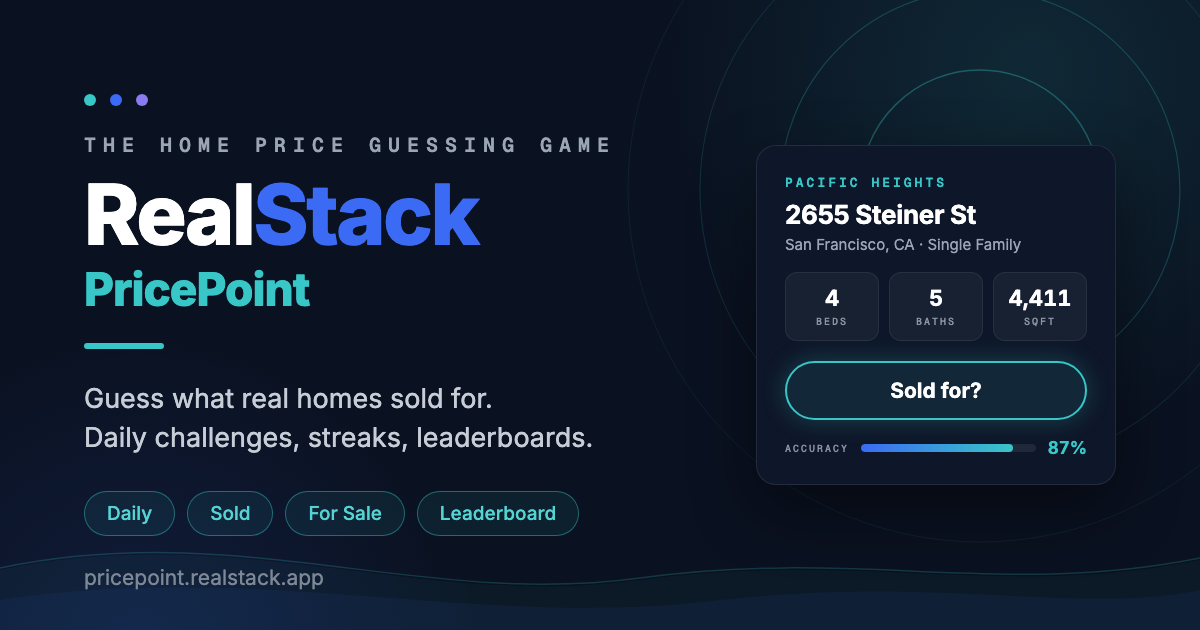
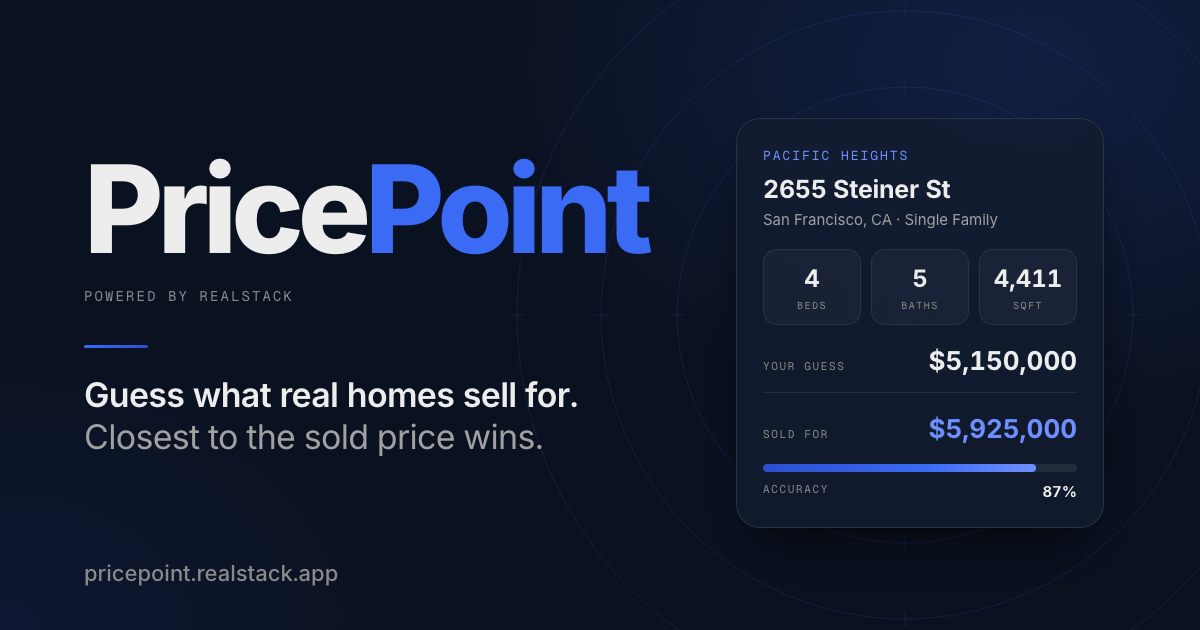
PricePoint share card: lead with PricePoint, one POWERED BY REALSTACK microline
The old og-pricepoint.png led with a huge "RealStack" wordmark and a small
teal "PricePoint" subtitle; it predated the 2026-07-24 naming rule, and a
friend seeing the unfurl in a group text asked "Competitor?". New card:
PricePoint wordmark as the headline, a single Geist Mono POWERED BY
REALSTACK microline, Grange blue (#2B4FCE only as gradient partner), no
teal, and the sample-home card now shows the game loop (your guess, sold
price, accuracy). Thin-line target rings mirror the PricePoint canvas.

Adds scripts/og/og-pricepoint.html as the source (none existed) with the
headless-Chrome render command. iMessage caches unfurls per URL, so old
shares keep the old card.

diff --git a/scripts/og/og-pricepoint.html b/scripts/og/og-pricepoint.html
@@ -1,0 +1,81 @@
+<!doctype html><html><head><meta charset="utf-8">
+<!--
+  Source for public/og-pricepoint.png (1200x630) — the card iMessage/Slack/etc.
+  show when a PricePoint link is shared (api/challenge.js brand card,
+  scripts/seo-pages.mjs). Follows CLAUDE.md "Product naming": PricePoint is the
+  headline, one POWERED BY REALSTACK microline. Grange palette (src/lib/theme.js),
+  Inter text, Geist Mono only for uppercase labels. Rings mirror the "target"
+  canvas in src/components/AppBackground.jsx.
+
+  Re-render (needs network for Google Fonts):
+    "/Applications/Google Chrome.app/Contents/MacOS/Google Chrome" --headless=new \
+      --disable-gpu --hide-scrollbars --force-device-scale-factor=1 \
+      --window-size=1200,630 --virtual-time-budget=8000 \
+      --screenshot="$PWD/public/og-pricepoint.png" "file://$PWD/scripts/og/og-pricepoint.html"
+
+  iMessage caches unfurls per URL — old shares keep the old card.
+-->
+<link rel="preconnect" href="https://fonts.googleapis.com"><link rel="preconnect" href="https://fonts.gstatic.com" crossorigin>
+<link href="https://fonts.googleapis.com/css2?family=Inter:wght@400;500;600;700;800&family=Geist+Mono:wght@400;500&display=block" rel="stylesheet">
+<style>
+*{box-sizing:border-box;margin:0;padding:0}
+html,body{width:1200px;height:630px;overflow:hidden}
+body{background:#0a1120;color:#EDEDED;font-family:'Inter',sans-serif;font-variant-numeric:tabular-nums;position:relative;-webkit-font-smoothing:antialiased}
+.mono{font-family:'Geist Mono',monospace;text-transform:uppercase}
+.wash{position:absolute;inset:0;background:
+ radial-gradient(900px 600px at 85% 10%, rgba(59,107,245,0.16), transparent 60%),
+ radial-gradient(700px 500px at 0% 100%, rgba(43,79,206,0.10), transparent 60%)}
+svg.rings{position:absolute;inset:0}
+.card{position:absolute;background:rgba(18,28,48,0.82);border:1px solid rgba(255,255,255,0.10);border-radius:24px;
+ box-shadow:0 1px 2px rgba(0,0,0,0.3),0 30px 60px -20px rgba(0,0,0,0.7);backdrop-filter:blur(8px)}
+.hood{font-size:13px;letter-spacing:0.15em;color:#6E90FF}
+.addr{font-weight:700;color:#EDEDED;letter-spacing:-0.01em}
+.sub{color:#A1A1A1}
+.stats{display:flex;gap:10px}
+.stat{flex:1;border:1px solid rgba(255,255,255,0.08);background:rgba(255,255,255,0.03);border-radius:14px;text-align:center;padding:14px 0 12px}
+.stat b{display:block;font-size:24px;font-weight:700}
+.stat span{display:block;font-size:10px;letter-spacing:0.15em;color:#8A8A8A;margin-top:6px}
+.btn{border-radius:9999px;background:linear-gradient(135deg,#3B6BF5,#2B4FCE);color:#fff;font-weight:700;text-align:center;box-shadow:0 10px 30px -8px rgba(59,107,245,0.6)}
+.bar{height:8px;border-radius:9999px;background:rgba(255,255,255,0.08);overflow:hidden}
+.bar i{display:block;height:100%;border-radius:9999px;background:linear-gradient(90deg,#2B4FCE,#3B6BF5 60%,#6E90FF)}
+.foot{position:absolute;left:84px;bottom:44px;font-size:22px;color:#8A8A8A;font-weight:500}
+.pb{font-size:13px;letter-spacing:0.15em;color:#8A8A8A}
+</style><style>
+.left{position:absolute;left:84px;top:0;height:630px;width:600px;display:flex;flex-direction:column;justify-content:center;padding-bottom:20px}
+h1{font-size:122px;font-weight:800;letter-spacing:-0.05em;line-height:0.95}
+h1 .pt{color:#3B6BF5}
+.pb{margin-top:20px;font-size:14px}
+.rule{width:64px;height:3px;border-radius:9999px;background:linear-gradient(90deg,#3B6BF5,#2B4FCE);margin-top:40px}
+.tag{font-size:34px;line-height:1.25;color:#EDEDED;margin-top:26px;font-weight:600;letter-spacing:-0.02em}
+.tag span{color:#A1A1A1;font-weight:400}
+.card{left:736px;top:118px;width:368px;padding:28px 26px 26px}
+.addr{font-size:25px;margin-top:10px}.sub{font-size:15px;margin-top:6px}
+.stats{margin-top:20px}
+.row{display:flex;justify-content:space-between;align-items:baseline;margin-top:20px}
+.row .mono{font-size:11px;letter-spacing:0.15em;color:#8A8A8A}
+.row b{font-size:26px;font-weight:700}
+.row.sold b{color:#6E90FF}
+.hr{height:1px;background:rgba(255,255,255,0.08);margin-top:16px}
+.bar{margin-top:20px}
+.accl{display:flex;justify-content:space-between;margin-top:10px;font-size:11px;letter-spacing:0.15em;color:#8A8A8A}
+.accl b{font-family:Inter;font-size:15px;letter-spacing:0;color:#EDEDED}
+.foot{left:84px}
+</style></head><body><div class="wash"></div>
+<svg class="rings" width="1200" height="630"><g fill="none" stroke="rgba(59,107,245,0.17)" stroke-width="1"><circle cx="905" cy="315" r="48"/><circle cx="905" cy="315" r="100"/><circle cx="905" cy="315" r="160"/><circle cx="905" cy="315" r="228"/><circle cx="905" cy="315" r="304"/><circle cx="905" cy="315" r="388"/><path d="M946 315L960 315M850 315L864 315M905 356L905 370M905 260L905 274M998 315L1012 315M798 315L812 315M905 408L905 422M905 208L905 222M1058 315L1072 315M738 315L752 315M905 468L905 482M905 148L905 162M1126 315L1140 315M670 315L684 315M905 536L905 550M905 80L905 94M1202 315L1216 315M594 315L608 315M905 612L905 626M905 4L905 18M1286 315L1300 315M510 315L524 315M905 696L905 710M905 -80L905 -66"/></g><circle cx="905" cy="315" r="3.5" fill="rgba(110,144,255,0.5)"/></svg><div class="left">
+<h1>Price<span class="pt">Point</span></h1>
+<div class="mono pb">Powered by RealStack</div>
+<div class="rule"></div>
+<div class="tag">Guess what real homes sell for.<br><span>Closest to the sold price wins.</span></div>
+</div>
+<div class="card">
+<div class="mono hood">Pacific Heights</div>
+<div class="addr">2655 Steiner St</div>
+<div class="sub">San Francisco, CA · Single Family</div>
+<div class="stats"><div class="stat"><b>4</b><span class="mono">Beds</span></div><div class="stat"><b>5</b><span class="mono">Baths</span></div><div class="stat"><b>4,411</b><span class="mono">Sqft</span></div></div>
+<div class="row"><span class="mono">Your guess</span><b>$5,150,000</b></div>
+<div class="hr"></div>
+<div class="row sold"><span class="mono">Sold for</span><b>$5,925,000</b></div>
+<div class="bar"><i style="width:87%"></i></div>
+<div class="accl mono"><span>Accuracy</span><b>87%</b></div>
+</div>
+<div class="foot">pricepoint.realstack.app</div></body></html>
